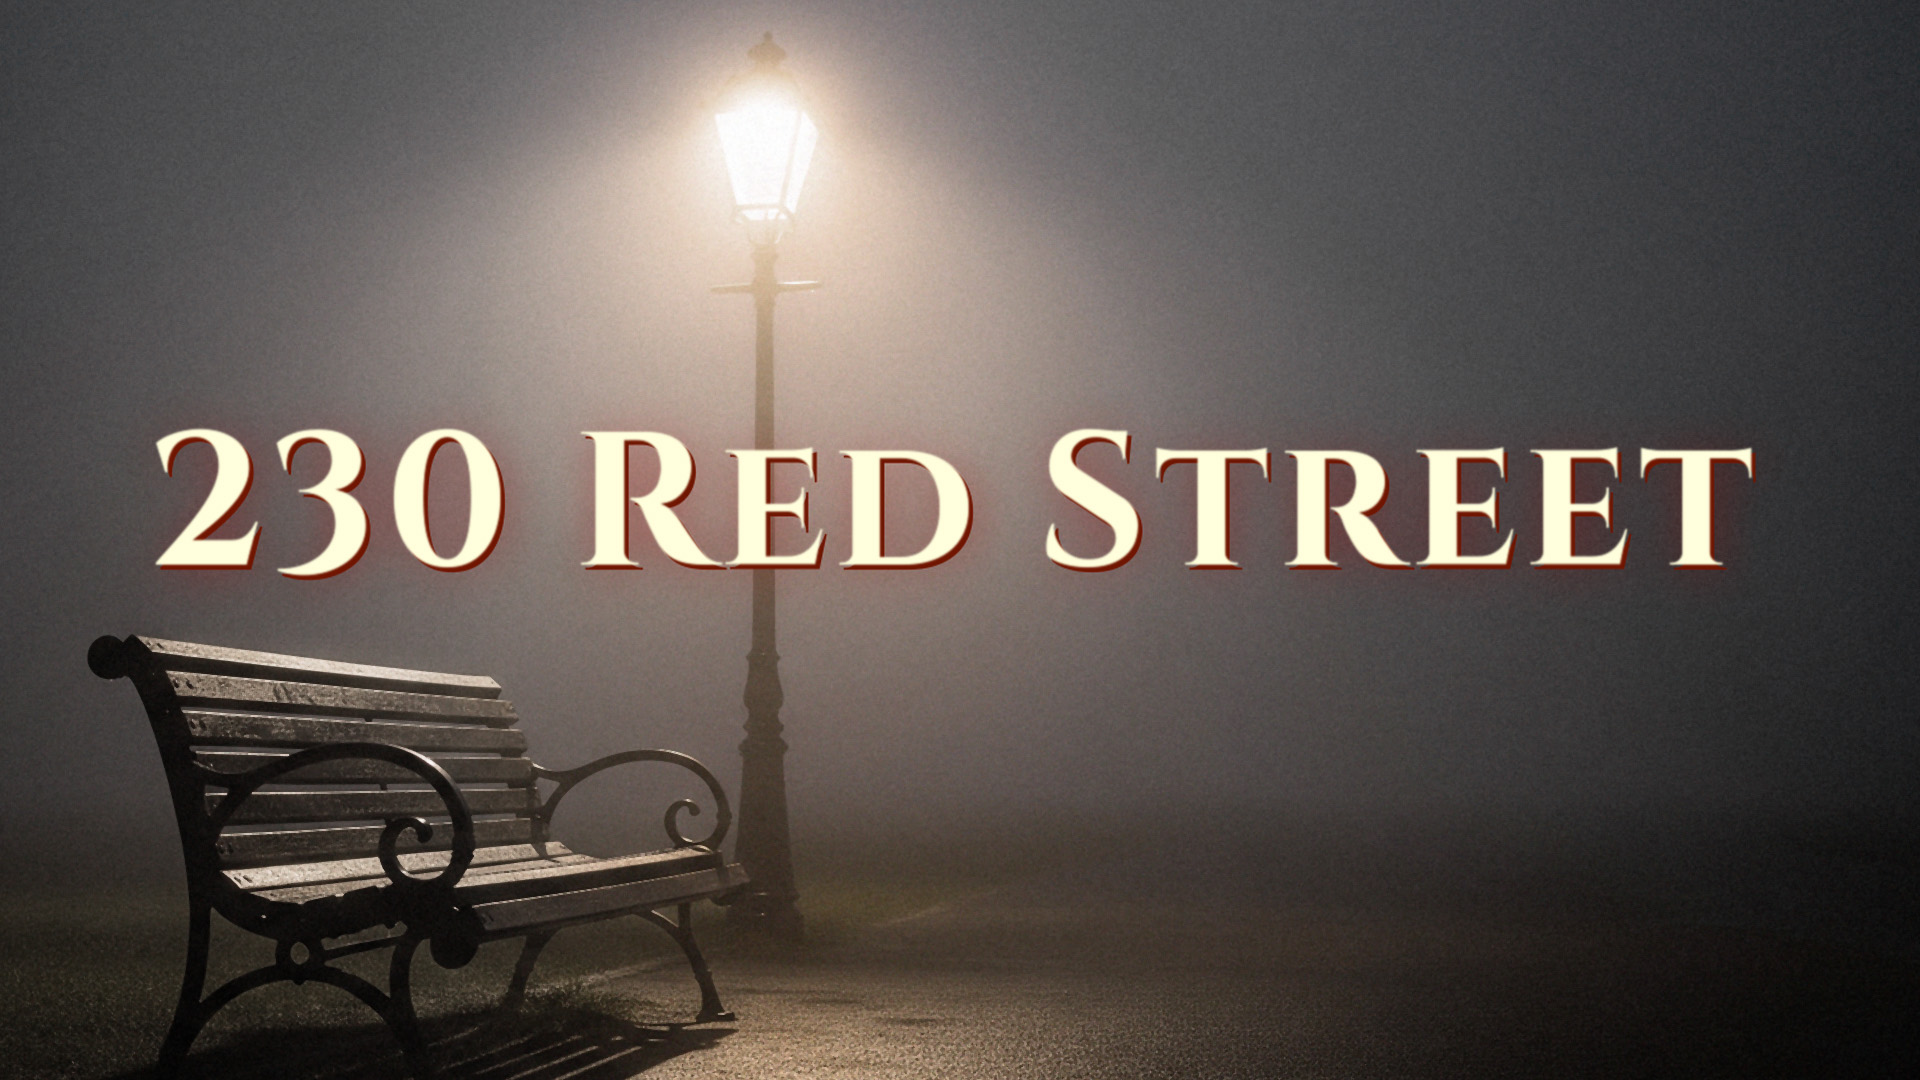
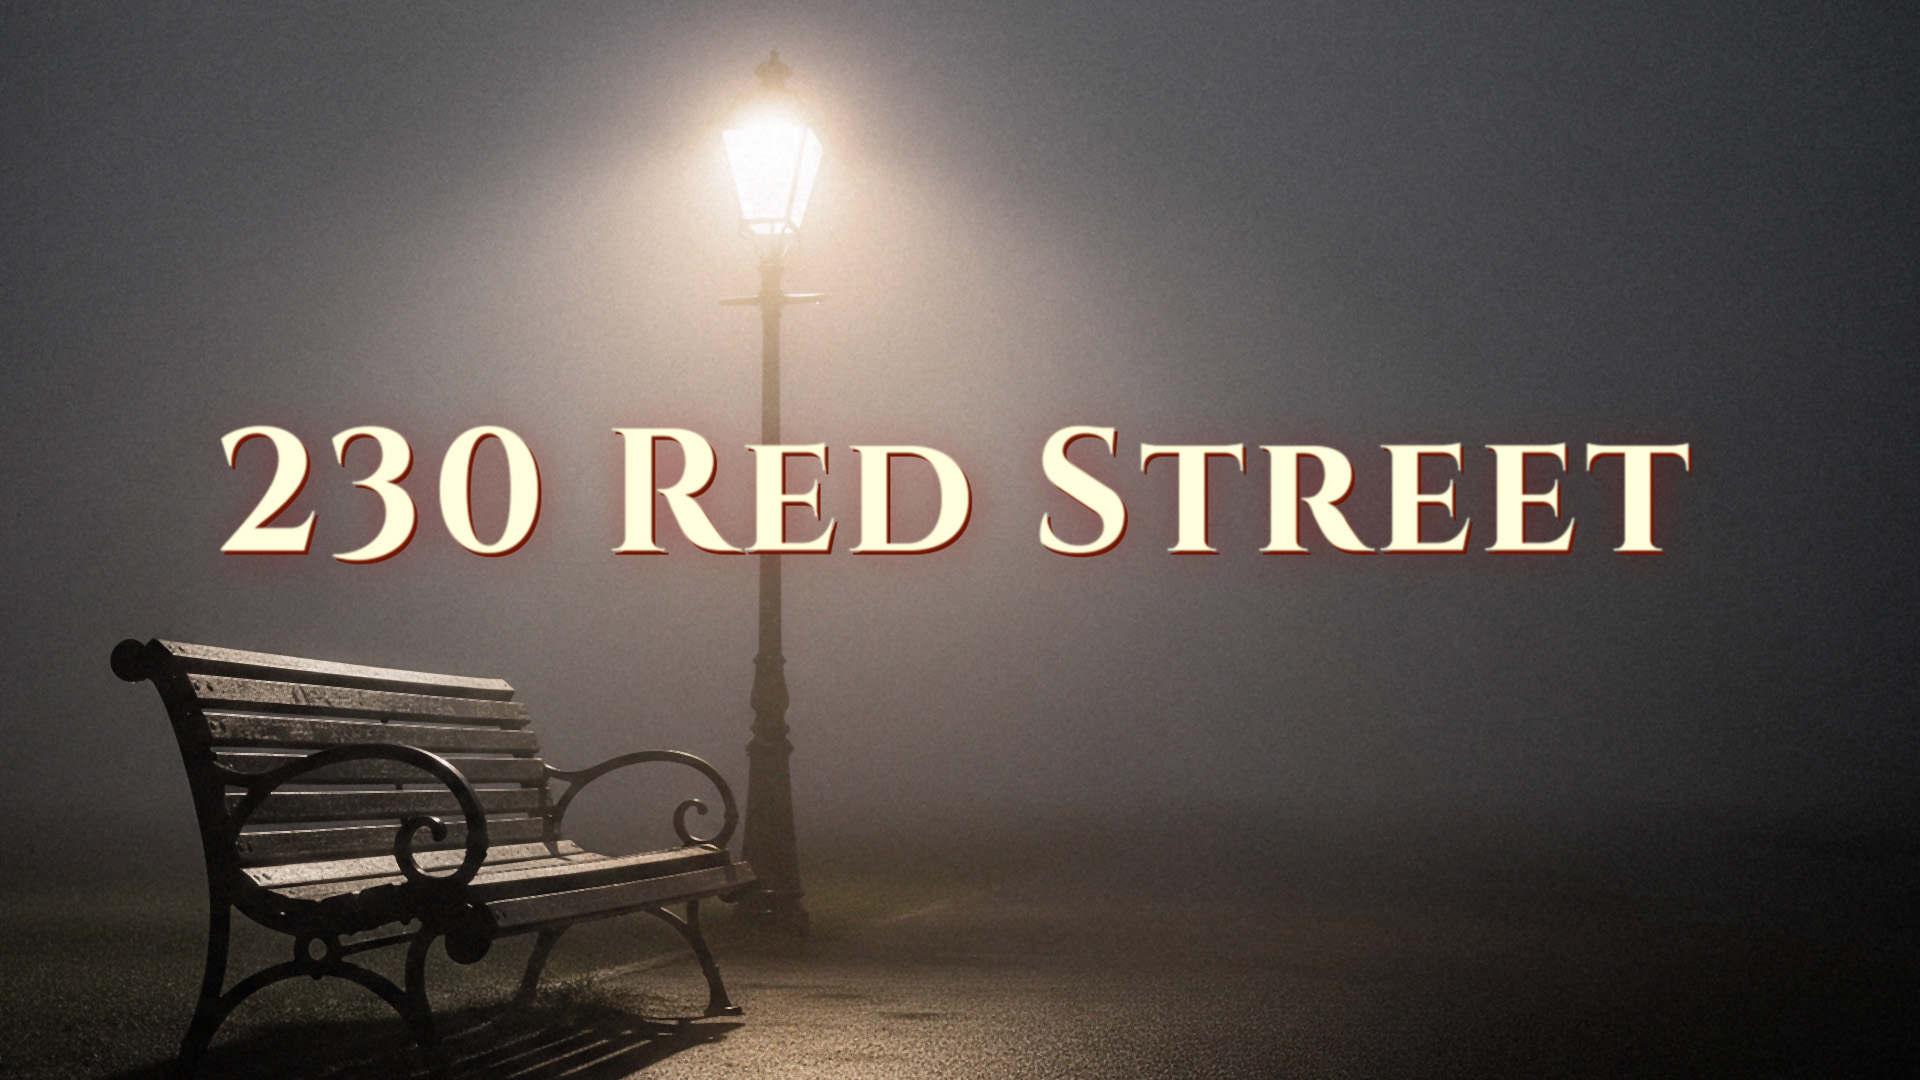
Update hero title image to Title3 (cache-bust ?v=3)

diff --git a/index.html b/index.html
@@ -341,7 +341,7 @@
 
 <header class="hero">
   <p class="castingmark">Casting Call</p>
-  <img class="title-art" src="title.jpg?v=2" alt="230 Red Street" width="1920" height="1080">
+  <img class="title-art" src="title.jpg?v=3" alt="230 Red Street" width="1920" height="1080">
   <p class="sub">Short Horror Film · Lafayette, Indiana</p>
   <ul class="facts">
     <li>5 roles open</li>